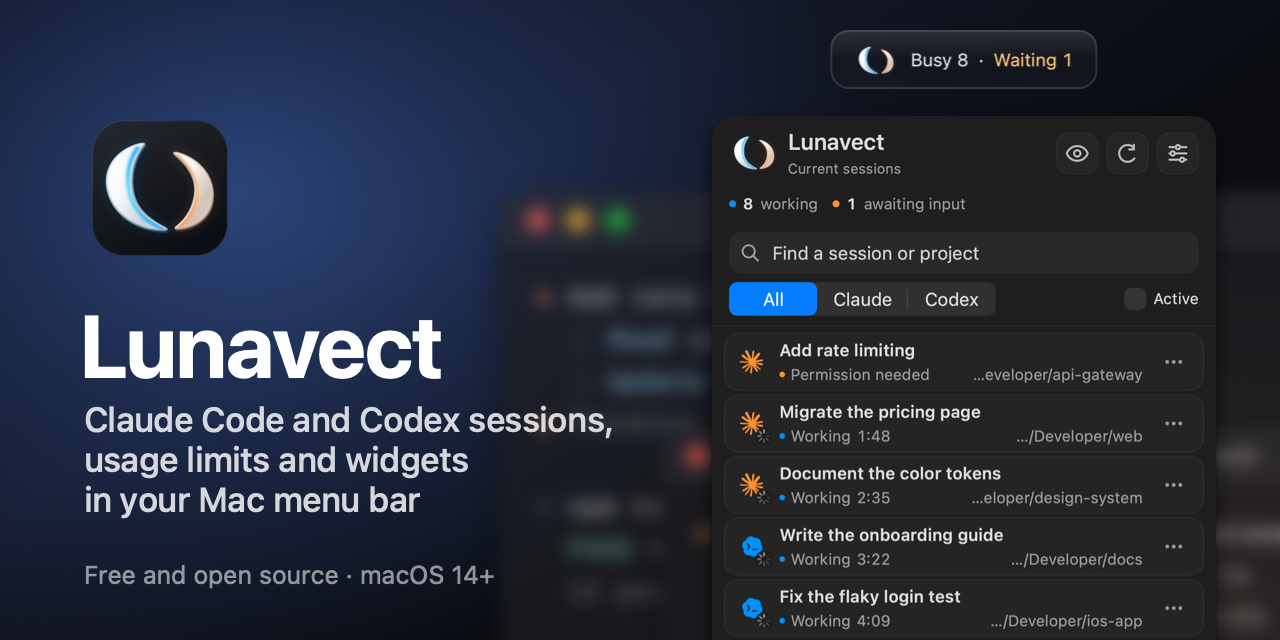
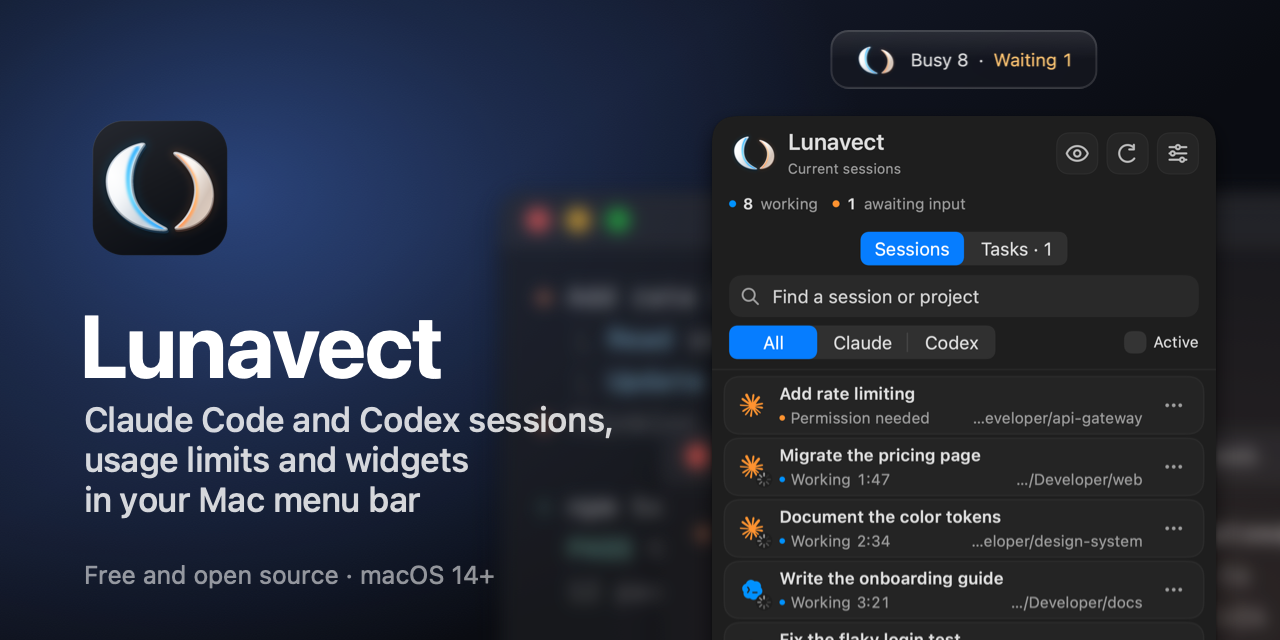
Show 0.2.8 in the README and on the site
New scenes from the app's own renders with fictional data: the session
panel with its Sessions and Tasks tabs (hero, sessions, social card), a
session stopped at its share of the week beside Limit Usage, and a year
of statistics with the calendar. README and site gain a section on
session limits.

diff --git a/docs/index.html b/docs/index.html
@@ -159,7 +159,7 @@ footer .badge img { display: block; max-width: 100%; height: auto; }
 <div class="wrap" id="features">
   <section class="feature">
     <div class="text"><h2>Know which agent needs you</h2><p>Every Claude Code and Codex task on your Mac in one panel, with its live state: working, thinking, waiting for permission or input, or done. Search, filter, pin and hide sessions. Live Terminal and iTerm2 sessions open in their own tab.</p></div>
-    <div class="shot"><img src="images/showcase/sessions.webp" width="2200" height="1600" loading="lazy" alt="Three Lunavect session panels: all nine tasks, a search result and the waiting filter"></div>
+    <div class="shot"><img src="images/showcase/sessions.webp" width="2200" height="1750" loading="lazy" alt="Three Lunavect session panels: all nine tasks, a search result and the waiting filter"></div>
   </section>
   <section class="feature flip">
     <div class="text"><h2>Background work, told once</h2><p>Claude's background commands, subagents and monitors appear as a small count on the session. A reply that leaves them running stays in the background, and one notification arrives when the work is done. If a turn fails, Lunavect says why: a reached limit and when it returns, a lost connection or a sign-in issue.</p></div>
@@ -170,14 +170,18 @@ footer .badge img { display: block; max-width: 100%; height: auto; }
     <div class="shot"><img src="images/showcase/limits.webp" width="2400" height="1100" loading="lazy" alt="Claude and Codex weekly usage limits in the menu bar, the Remaining popover and a desktop widget"></div>
   </section>
   <section class="feature flip">
+    <div class="text"><h2>Stop a session at your share of the week</h2><p>Choose Limit Usage… on a Claude Code or Codex session. Near your level the agent finishes its step and writes what is done and what is left; at the level its next action is refused. Nothing is killed, and your own message lifts the stop. Lunavect continues the session after the reset in its own Terminal or iTerm2 tab, or at a time you choose with Continue Later….</p></div>
+    <div class="shot"><img src="images/showcase/session-limits.webp" width="2420" height="1645" loading="lazy" alt="The Lunavect Tasks tab with a session stopped at its limit and the agent's summary, beside the Limit Usage window"></div>
+  </section>
+  <section class="feature">
     <div class="text"><h2>Desktop widgets</h2><p>Limits, activity or both in small, medium and large sizes, on a solid background or adjustable glass. Widgets read saved data, so they keep working while the app is closed.</p></div>
     <div class="shot"><img src="images/showcase/widgets.webp" width="2400" height="1200" loading="lazy" alt="Lunavect WidgetKit widgets on glass: overview, limits and activity"></div>
   </section>
-  <section class="feature">
-    <div class="text"><h2>See where your time goes</h2><p>Working time by day, week, month, year and all time for each provider, with a calendar of working days, the hours you work, projects and sessions. The Agent Monitor shows tokens per session, project and model from the local logs. Recovered history is marked as approximate, and overlapping sessions are counted once.</p></div>
-    <div class="shot"><img src="images/showcase/activity.webp" width="2300" height="1500" loading="lazy" alt="Lunavect Statistics settings with a week of Claude and Codex working time"></div>
-  </section>
   <section class="feature flip">
+    <div class="text"><h2>See where your time goes</h2><p>Working time by day, week, month, year and all time for each provider, with a calendar of working days, the hours you work, projects and sessions. The Agent Monitor shows tokens per session, project and model from the local logs. Recovered history is marked as approximate, and overlapping sessions are counted once.</p></div>
+    <div class="shot"><img src="images/showcase/activity.webp" width="2400" height="2530" loading="lazy" alt="Lunavect Statistics for a year: weekly Claude and Codex working time and a calendar of days with work"></div>
+  </section>
+  <section class="feature">
     <div class="text"><h2>Make it yours</h2><p>Pick the Claude, Codex or Lunavect character, a one-line, two-line or activity-only status, and playful activity phrases while your agents work.</p></div>
     <div class="shot"><img src="images/showcase/customize.webp" width="2300" height="1650" loading="lazy" alt="Menu bar status styles and the Menu Bar settings with character selection"></div>
   </section>

diff --git a/README.md b/README.md
@@ -40,7 +40,7 @@ Every Claude Code and Codex task on your Mac in one panel, with its live state:<
 working, thinking, waiting for permission or input, or done.<br>
 Search, filter, pin and hide sessions. Live Terminal and iTerm2 sessions open in their own tab.
 
-<img src="docs/images/showcase/sessions.webp" width="760" alt="Three Lunavect session panels: all nine tasks, a search for “bill” showing one Claude task, and the waiting filter showing the task that needs permission">
+<img src="docs/images/showcase/sessions.webp" width="760" alt="Three Lunavect session panels with Sessions and Tasks tabs: all nine tasks, a search for “bill” showing one Claude task, and the waiting filter showing the task that needs permission">
 
 ### Background work, told once
 
@@ -61,6 +61,14 @@ Show them in the menu bar as bars, percentages or rings. Unknown values stay unk
 
 <img src="docs/images/showcase/limits.webp" width="880" alt="Claude 68% and Codex 54% of weekly usage left, shown in the menu bar as bars, percentages and rings, in the Remaining popover with reset dates and in a small desktop widget">
 
+### Stop a session at your share of the week
+
+Two-finger click a Claude Code or Codex session and choose **Limit Usage…**. Near your level the agent finishes its step<br>
+and writes what is done and what is left; at the level its next action is refused. Nothing is killed, and your own message lifts the stop.<br>
+Lunavect continues the session after the reset in its own Terminal or iTerm2 tab, or at a time you choose with **Continue Later…**.
+
+<img src="docs/images/showcase/session-limits.webp" width="880" alt="The Lunavect Tasks tab with a Claude session stopped at its 30% limit while the week is at 32% and the agent's summary of what is done and what is left, beside the Limit Usage window setting a 55% limit for another session">
+
 ### Desktop widgets
 
 Limits, activity or both, in small, medium and large sizes.<br>
@@ -74,7 +82,7 @@ Working time by day, week, month, year and all time for each provider, with a ca
 the hours you work, projects and sessions. The Agent Monitor shows tokens per session, project and model.<br>
 Recovered history is marked as approximate.
 
-<img src="docs/images/showcase/activity.webp" width="820" alt="Lunavect Statistics settings: a week of Claude and Codex working time with a daily chart">
+<img src="docs/images/showcase/activity.webp" width="820" alt="Lunavect Statistics for a year: weekly Claude and Codex working time, period totals, the busiest week and peak hour, and a calendar of days with work">
 
 ### Make it yours
 
